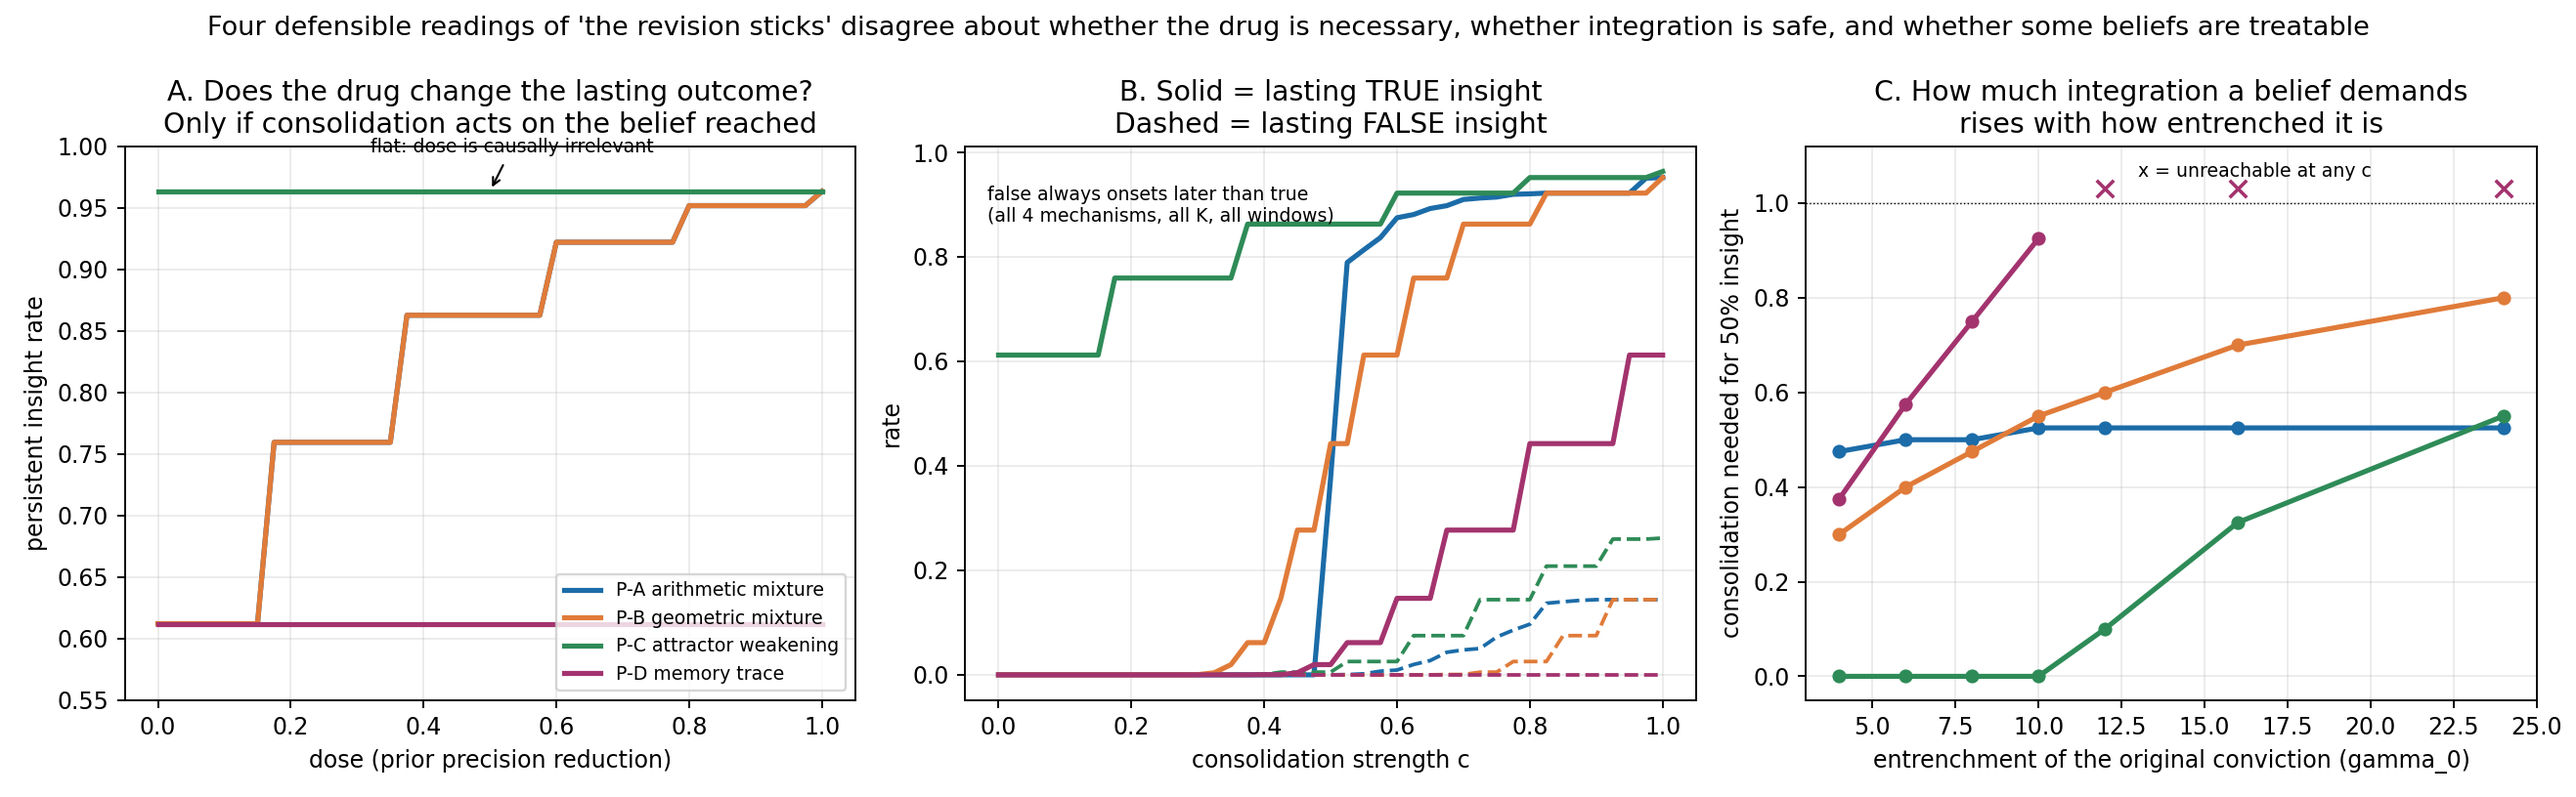
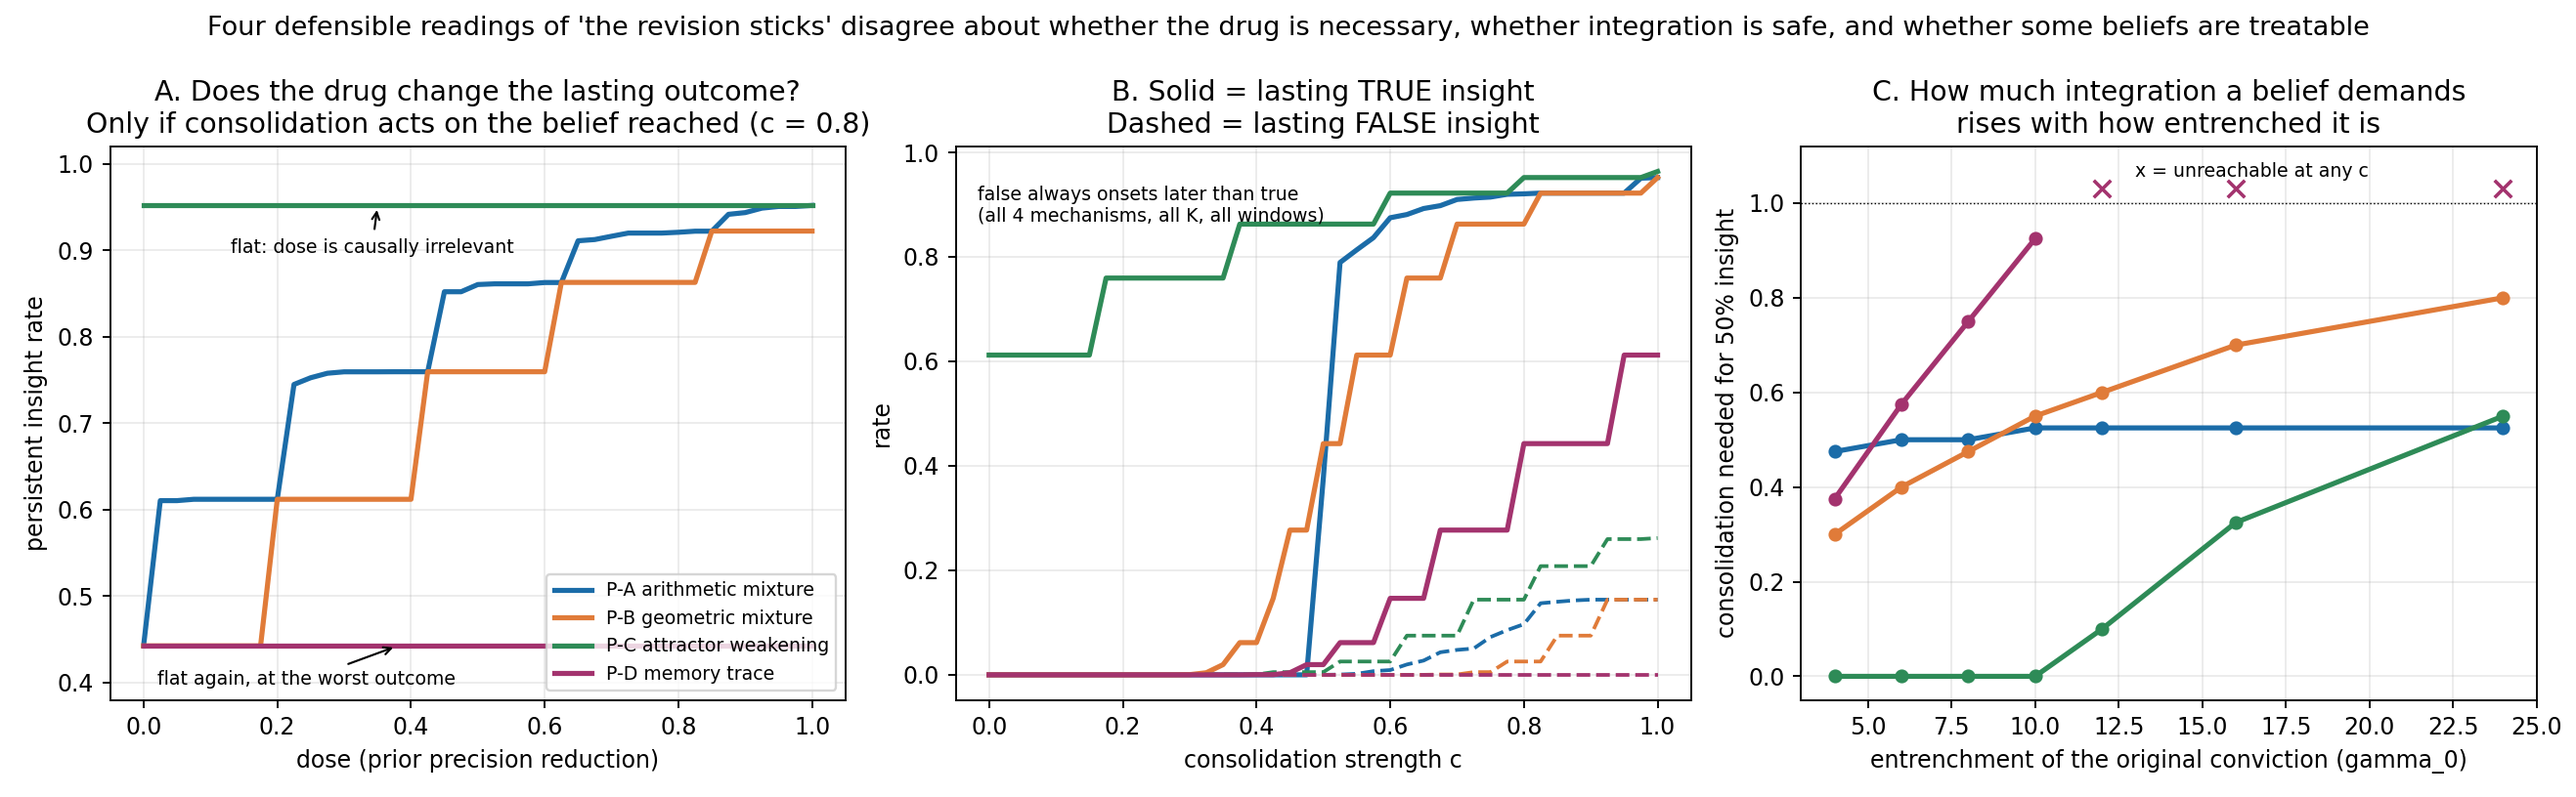
Fix figure_robustness: panel A at c=0.8 where P-A and P-B separate; label both flat mechanisms

diff --git a/figure2.py b/figure2.py
@@ -15,13 +15,18 @@ g=lambda k,r,dd,c: M[f"{k}|{r}|{dd}|{c}"]
 
 fig,ax=plt.subplots(1,3,figsize=(15.5,4.8))
 
-# A: dose dependence at full consolidation
+# A: dose dependence at c = 0.8. Not 1.0: at full consolidation P-A and P-B coincide
+# exactly (both reduce to the window belief), so the P-A curve hides under P-B.
+C_A=0.8
 for k in P:
-    ax[0].plot(DOSES,[g(k,r_hi,dd,1.0)[0] for dd in DOSES],lw=2.2,color=COL[k],label=LBL[k])
-ax[0].set_title("A. Does the drug change the lasting outcome?\nOnly if consolidation acts on the belief reached")
+    ax[0].plot(DOSES,[g(k,r_hi,dd,C_A)[0] for dd in DOSES],lw=2.2,color=COL[k],label=LBL[k])
+ax[0].set_title(f"A. Does the drug change the lasting outcome?\nOnly if consolidation acts on the belief reached (c = {C_A})")
 ax[0].set_xlabel("dose (prior precision reduction)"); ax[0].set_ylabel("persistent insight rate")
-ax[0].set_ylim(0.55,1.0); ax[0].legend(fontsize=8,loc="lower right"); ax[0].grid(alpha=.25)
-ax[0].annotate("flat: dose is causally irrelevant",xy=(0.5,0.9634),xytext=(0.32,0.995),
+ax[0].set_ylim(0.38,1.02); ax[0].legend(fontsize=8,loc="lower right"); ax[0].grid(alpha=.25)
+pc=g("P-C_attractor",r_hi,0.5,C_A)[0]; pd=g("P-D_memory",r_hi,0.5,C_A)[0]
+ax[0].annotate("flat: dose is causally irrelevant",xy=(0.35,pc),xytext=(0.13,pc-0.055),
+    fontsize=8,arrowprops=dict(arrowstyle="->",lw=.9))
+ax[0].annotate("flat again, at the worst outcome",xy=(0.38,pd),xytext=(0.02,pd-0.045),
     fontsize=8,arrowprops=dict(arrowstyle="->",lw=.9))
 
 # B: the safe window

diff --git a/SESSION_LOG.md b/SESSION_LOG.md
@@ -6,6 +6,13 @@ Work this session, newest first. Poster abstract deadline is Sunday 2026-08-16.
 
 ### Figure fixes
 
+- **figure2.py**: panel A redrawn at c = 0.8 instead of c = 1.0. At full consolidation
+  P-A and P-B coincide exactly (both reduce to the window belief), so the P-A curve was
+  invisible under P-B. At 0.8 they separate; both flat mechanisms (P-C at 0.952, P-D at
+  0.443) are labeled.
+- **figure3.py**: panel B annotations moved inside the axes (one was colliding with the
+  title) and off the curves.
+
 - **dense_grids.py / dense_grids.json**: resolution-only recompute of the three
   figure_main quantities (predictions 6, 8, 3) at 41 doses x 41 consolidation levels x
   20,000 paired trials. No new hypotheses, no new arms, mechanism byte-identical to
